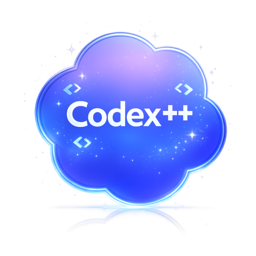
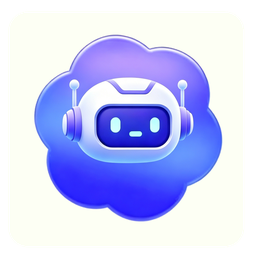
feat: 新增系统托盘图标，关闭按钮最小化到托盘，只能从托盘退出

diff --git a/apps/codex-plus-manager/src-tauri/src/lib.rs b/apps/codex-plus-manager/src-tauri/src/lib.rs
@@ -1,4 +1,5 @@
 pub mod commands;
+use tauri::Manager;
 pub mod install;
 
 pub fn run() {
@@ -26,6 +27,47 @@ pub fn run() {
                 .inner_size(1180.0, 820.0)
                 .min_inner_size(960.0, 720.0)
                 .build()?;
+
+            // Tray icon setup
+            let show_item = tauri::menu::MenuItemBuilder::with_id("show", "显示窗口").build(app)?;
+            let quit_item = tauri::menu::MenuItemBuilder::with_id("quit", "退出").build(app)?;
+            let menu = tauri::menu::MenuBuilder::new(app)
+                .item(&show_item)
+                .item(&quit_item)
+                .build()?;
+
+            let _tray = tauri::tray::TrayIconBuilder::new()
+                .icon(app.default_window_icon().unwrap().clone())
+                .menu(&menu)
+                .on_menu_event(move |app, event| {
+                    match event.id().as_ref() {
+                        "show" => {
+                            if let Some(w) = app.get_webview_window("main") {
+                                let _ = w.show();
+                                let _ = w.set_focus();
+                            }
+                        }
+                        "quit" => {
+                            app.exit(0);
+                        }
+                        _ => {}
+                    }
+                })
+                .on_tray_icon_event(|tray, event| {
+                    if let tauri::tray::TrayIconEvent::Click {
+                        button: tauri::tray::MouseButton::Left,
+                        button_state: tauri::tray::MouseButtonState::Up,
+                        ..
+                    } = event
+                    {
+                        let app = tray.app_handle();
+                        if let Some(w) = app.get_webview_window("main") {
+                            let _ = w.show();
+                            let _ = w.set_focus();
+                        }
+                    }
+                })
+                .build(app)?;
             Ok(())
         })
         .invoke_handler(tauri::generate_handler![
@@ -82,7 +124,13 @@ pub fn run() {
             commands::apply_pure_api_injection,
             commands::clear_relay_injection
         ])
-        .run(tauri::generate_context!());
+        .on_window_event(|window, event| {
+            if let tauri::WindowEvent::CloseRequested { api, .. } = event {
+                let _ = window.hide();
+                api.prevent_close();
+            }
+        })
+.run(tauri::generate_context!());
     if let Err(error) = run_result {
         let _ = codex_plus_core::diagnostic_log::append_diagnostic_log(
             "manager.run_failed",